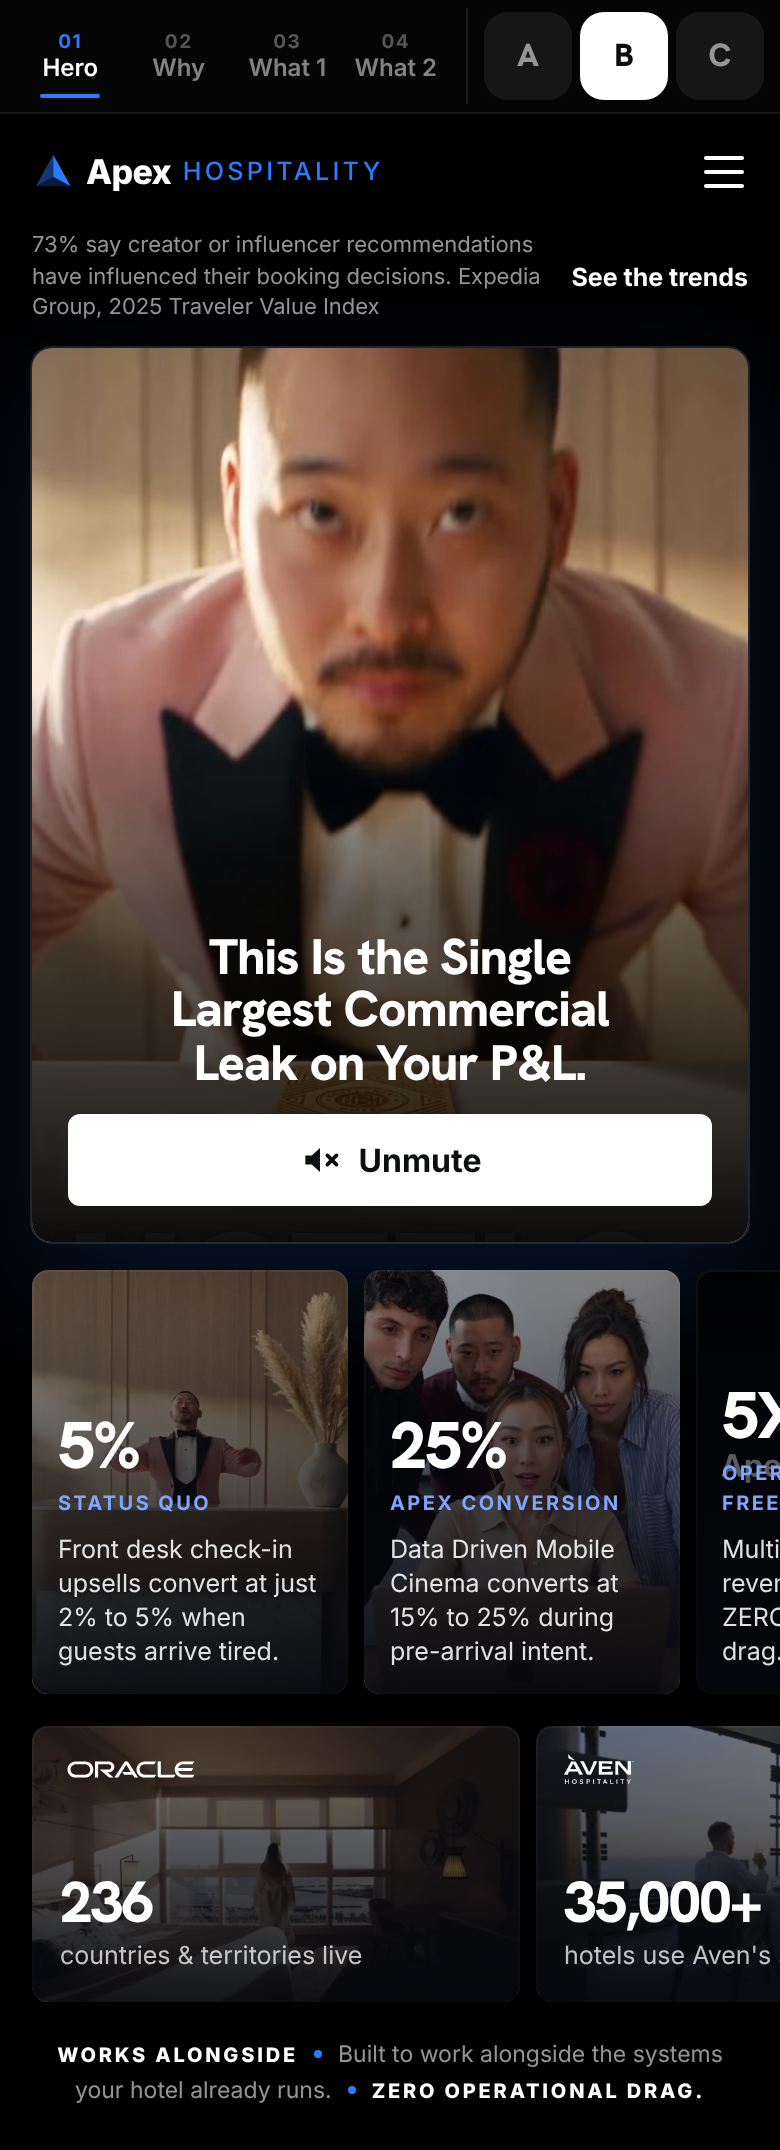
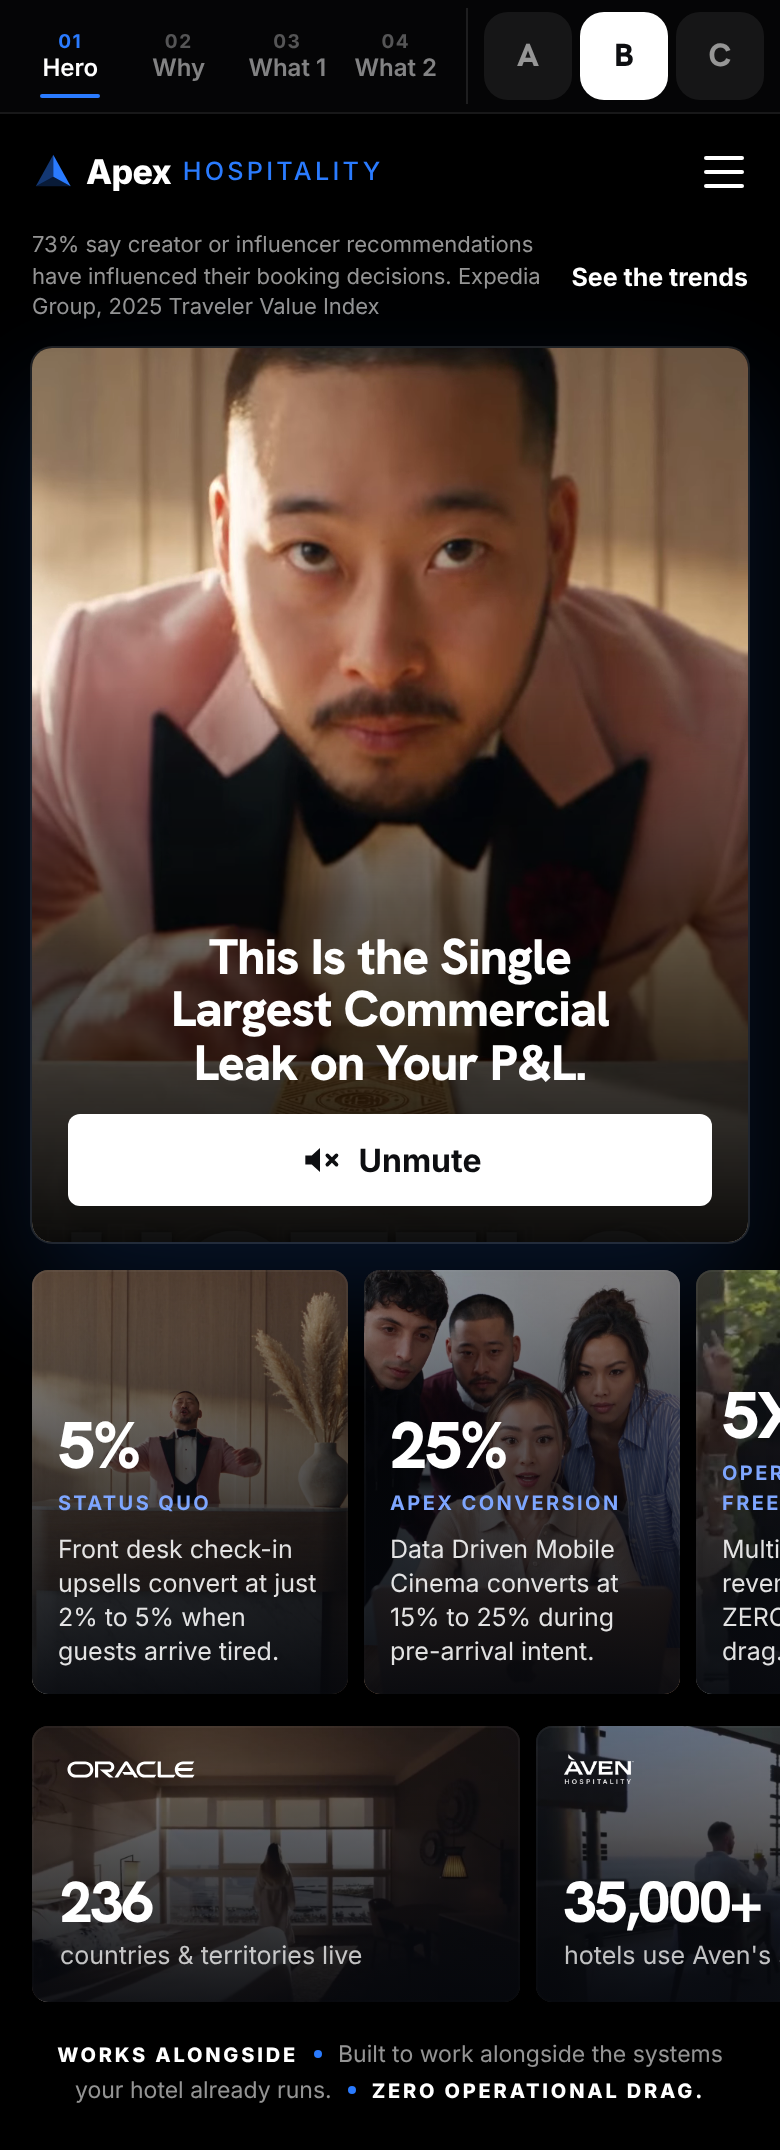
Welcome mobile v3: dining and spa films that show dining and spa
What 1's dining film was the Apex logo reveal and its spa film a laptop
scene. Both now use the repo's own clips for those moments: the dining
card (a waiter serving at table) and the accommodation card (a pool).
img() takes a root-relative path as-is so /media/cards/ can be used.
Hero B's third stat poster moves off the logo-reveal still for the same
reason.

Claude-Session: https://claude.ai/code/session_012ScGZJNiL6sWcpP3k4F89w

Changed region(s): [[0.0308, 0.1558, 0.9538, 0.4986], [0.8923, 0.5921, 1.0, 0.7479], [0.7077, 0.4674, 0.7385, 0.4986]]

diff --git a/src/app/(samples)/samples/welcome-mobile-v3/data.ts b/src/app/(samples)/samples/welcome-mobile-v3/data.ts
@@ -8,7 +8,8 @@
  */
 
 export const MEDIA = '/media/welcome/';
-export const img = (name: string) => `${MEDIA}${name}`;
+/** A media path: names are under /media/welcome/; a root-relative path is used as it is. */
+export const img = (name: string) => (name.startsWith('/') ? name : `${MEDIA}${name}`);
 
 export const BANNER = {
   text: '73% say creator or influencer recommendations have influenced their booking decisions. Expedia Group, 2025 Traveler Value Index',
@@ -96,11 +97,15 @@ export const WHAT1 = {
   phone: { img: 't9.jpg', button: 'Book a treatment' },
   eye: 'The Four Films.',
   headline: 'Four Films, Four Moments. Every One Sells the Stay.',
-  /** One film per milestone, in the rows' order (the round 2 mobile page's mapping, still to be confirmed). */
+  /**
+   * One film per milestone, in the rows' order. Dining and spa use the repo's own
+   * dining and accommodation (pool) clips, which show those moments; the round 2
+   * page had the Apex logo reveal and a laptop scene there.
+   */
   films: [
     { title: 'welcome by name', clip: 'hq/card.mp4', hevc: 'hq/card-hevc.mp4', poster: 'hq/card.jpg' },
-    { title: 'dining', clip: 'hq/apex-reveal.mp4', poster: 'hq/apex-reveal.jpg' },
-    { title: 'spa', clip: 'hq/screen.mp4', hevc: 'hq/screen-hevc.mp4', poster: 'hq/screen.jpg' },
+    { title: 'dining', clip: '/media/cards/dining.mp4', webm: '/media/cards/dining.webm', poster: '/media/cards/dining.jpg' },
+    { title: 'spa', clip: '/media/cards/accommodation.mp4', webm: '/media/cards/accommodation.webm', poster: '/media/cards/accommodation.jpg' },
     { title: 'arrival and extensions', clip: 'm9.mp4', poster: 'm9.jpg' },
   ] as Film[],
 };

diff --git a/src/app/(samples)/samples/welcome-mobile-v3/HeroB.tsx b/src/app/(samples)/samples/welcome-mobile-v3/HeroB.tsx
@@ -10,7 +10,7 @@ import { Burger, Film, Lockup, SoundIcon, useFilm } from './parts';
  * of stat posters and a row of wide partner tiles, each on a darkened still
  * from the live page, swiped sideways.
  */
-const STAT_STILLS = ['hq/card.jpg', 'hq/screen.jpg', 'hq/apex-reveal.jpg'];
+const STAT_STILLS = ['hq/card.jpg', 'hq/screen.jpg', '/media/cards/corporate.jpg'];
 const PARTNER_STILLS = ['t2.jpg', 'f6.jpg', 't16.jpg'];
 
 export default function HeroB() {
